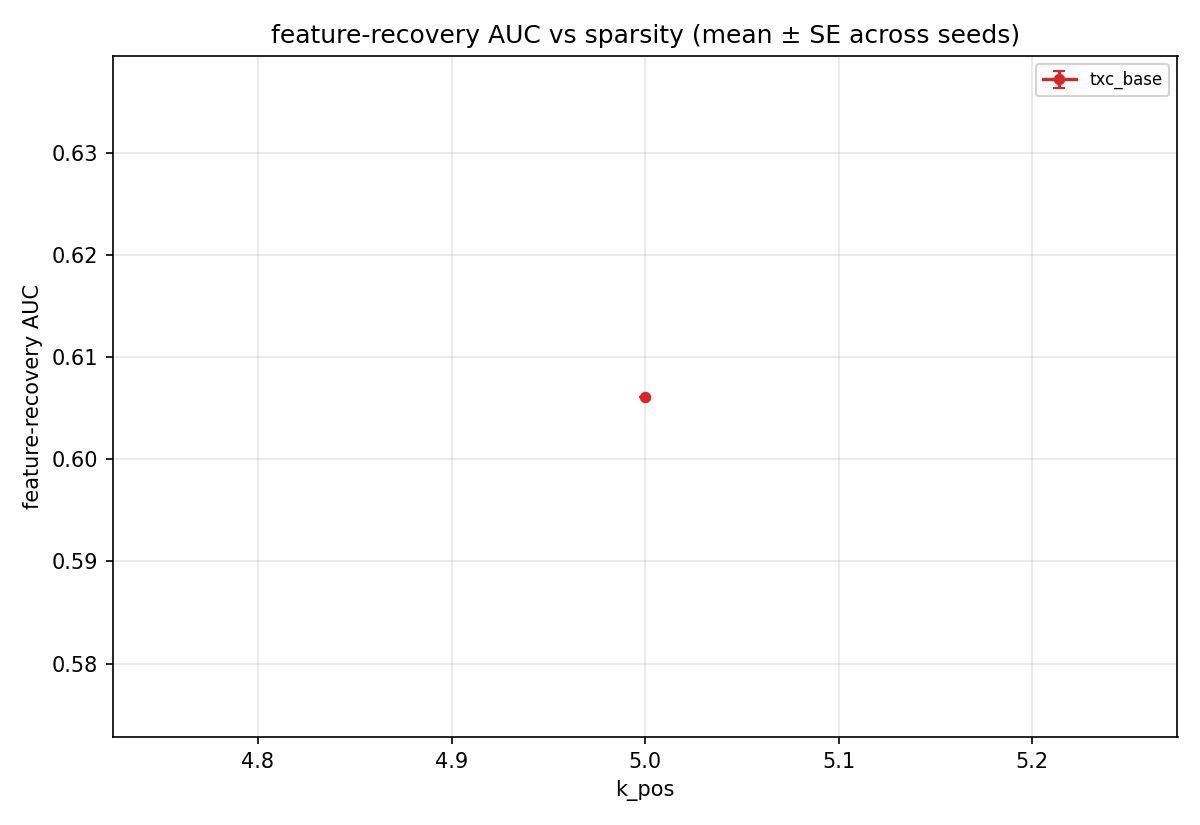
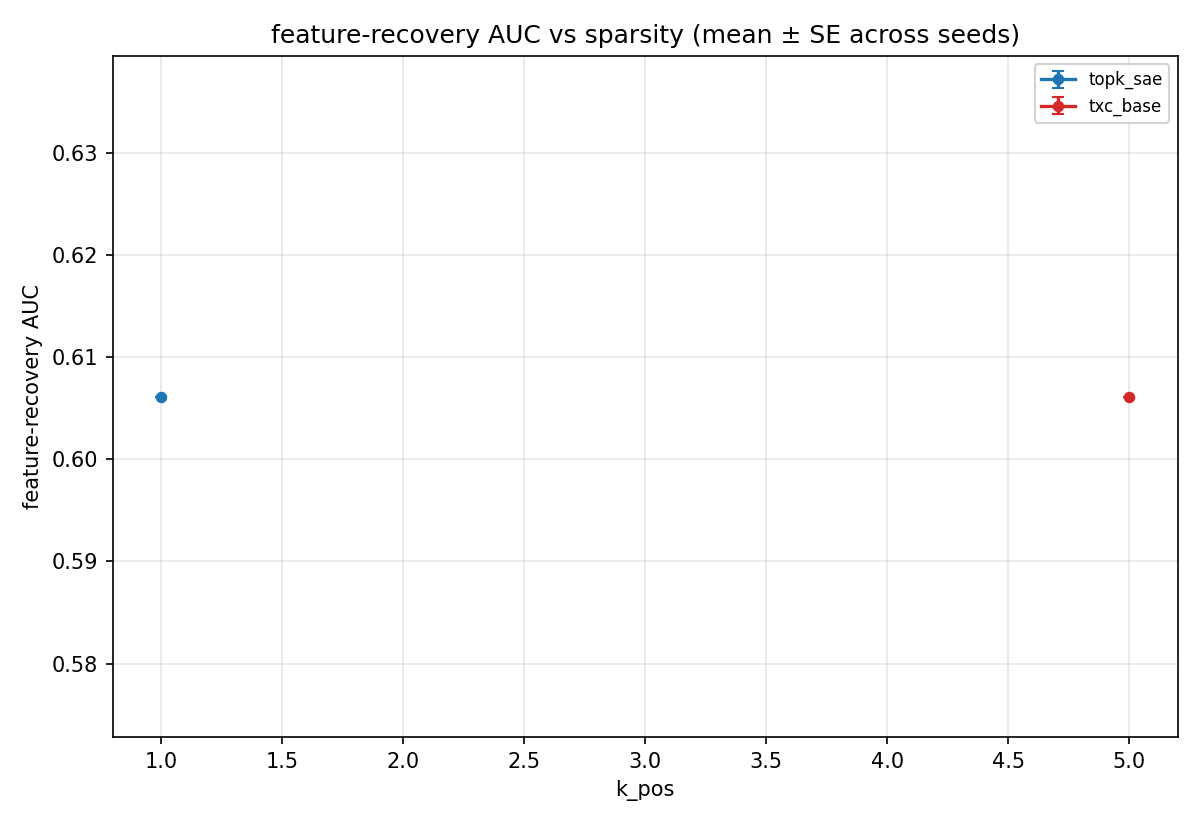
c1+c2 paper auto: refresh synthetic bundles (c1=, c2= leaderboard rows)
Auto-generated by purified/scripts/synthetic_paper_renderer.py.
Inputs: results/leaderboard.jsonl filtered to component in (c1,c2)
with eval_cfg._full_suite=true (the c{1,2}_synthetic_*_full driver flag).

diff --git a/purified/docs/components/c1_paper_results.md b/purified/docs/components/c1_paper_results.md
@@ -1,6 +1,6 @@
 # C1 Synthetic TopK — paper-ready results (auto-generated)
 
-_Last refreshed: 2026-05-06T01:49:38+00:00_
+_Last refreshed: 2026-05-06T02:14:42+00:00_
 
 ## Setup
 
@@ -9,13 +9,14 @@ _Last refreshed: 2026-05-06T01:49:38+00:00_
 - Metric: feature-recovery AUC against the 20 ground-truth orthogonal directions (per-feature max cosine ≥ τ, integrated over τ ∈ [0, 1]).
 - Driver: `experiments/c1_synthetic_topk_full/run.py` (routes through `temp_bench.data.toy_full.api`, isolated from agent_filler's `toy_markov_n20_d40` cache via distinct `act_cache_key`).
 
-Currently 1 cells across 1 (arch, T) configurations; seeds-per-cell range = [1].
+Currently 2 cells across 2 (arch, T) configurations; seeds-per-cell range = [1].
 
 ## Headline (peak AUC over k_pos)
 
 | arch | T | k\* | AUC (mean ± SE) | n seeds |
 |------|---|----|---------------------------|---------|
 | `txc_base` | — | 5 | 0.606 ± 0.000 | 1 |
+| `topk_sae` | — | 1 | 0.606 ± 0.000 | 1 |
 
 ## AUC vs k_pos
 
@@ -23,6 +24,7 @@ Currently 1 cells across 1 (arch, T) configurations; seeds-per-cell range = [1].
 
 ## Per-cell mean (averaged across seeds)
 
-| arch (T) | k=5 |
-|---|---|
-| `txc_base` | 0.606 |
+| arch (T) | k=1 | k=5 |
+|---|---|---|
+| `topk_sae` | 0.606 | — |
+| `txc_base` | — | 0.606 |

diff --git a/purified/docs/components/c2_paper_results.md b/purified/docs/components/c2_paper_results.md
@@ -1,6 +1,6 @@
 # C2 Synthetic Coupled — paper-ready results (auto-generated)
 
-_Last refreshed: 2026-05-06T01:49:39+00:00_
+_Last refreshed: 2026-05-06T02:14:42+00:00_
 
 ## Setup
 
